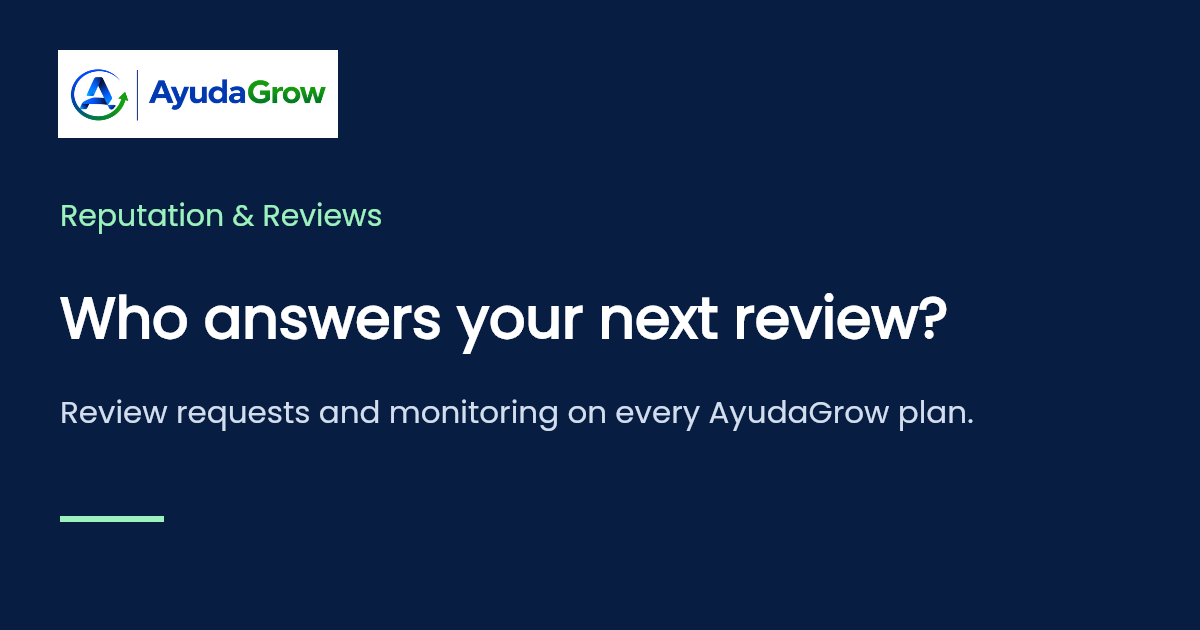
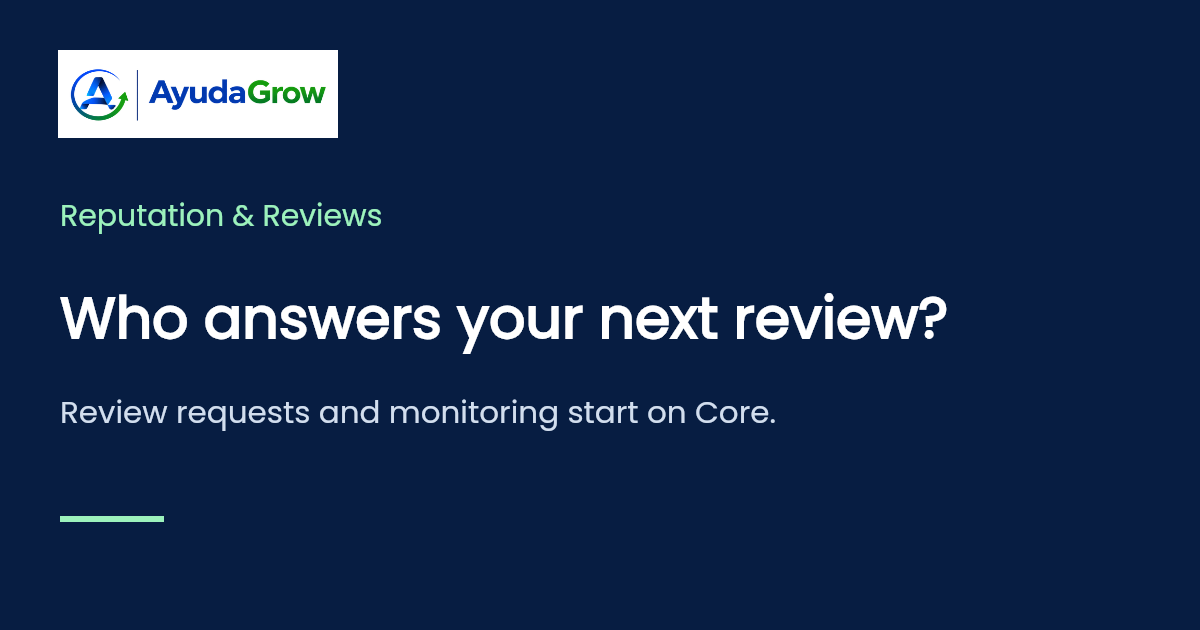
Correct Essentials reputation exclusion and clarify Scale listing checks

Changed region(s): [[0.4625, 0.6333, 0.8017, 0.6937]]

diff --git a/review/index.html b/review/index.html
@@ -43,7 +43,7 @@ footer{background:var(--navy);color:white}.hero .offer .plan,.hero .offer .cost{
 <meta property="og:description" content="Compare review requests, AI-drafted replies, response automation and multi-site monitoring across all four AyudaGrow plans.">
 <meta property="og:url" content="https://raw.githack.com/ayudadigital12-afk/AyudaGrow-Site-Nov-2026/reputation-review-preview/review/index.html">
 <meta property="og:image" content="https://raw.githack.com/ayudadigital12-afk/AyudaGrow-Site-Nov-2026/reputation-review-preview/review/share.png">
-<meta property="og:image:alt" content="AyudaGrow Reputation and Reviews. Review requests and monitoring on every plan.">
+<meta property="og:image:alt" content="AyudaGrow Reputation and Reviews. Review requests and monitoring start on Core.">
 <meta name="twitter:card" content="summary_large_image">
 </head>
 <body>
@@ -55,25 +55,25 @@ footer{background:var(--navy);color:white}.hero .offer .plan,.hero .offer .cost{
 <a class="button hero-action" href="#listing-check">Request a listing check</a></div></div></section>
 <section class="chapter wrap" aria-labelledby="steps-title"><h2 id="steps-title">How it works</h2>
 <ol class="steps">
-<li><h3>Connect your listings</h3><p>Start with your Google Business Profile and Facebook page. On Scale, add every eligible review source relevant to your business.</p></li>
+<li><h3>Connect your listings</h3><p>Start with your Google Business Profile and Facebook page. Review requests and monitoring start on Core. Ask us to check other listings separately.</p></li>
 <li><h3>We check each connection</h3><p>We match the listing to the right business and location, check that reviews arrive, and test where an alert goes.</p></li>
 <li><h3>Catch reviews that need attention</h3><p>New reviews from connected sites land in one review inbox. Once a source passes testing, concerning feedback can alert the manager you choose.</p></li>
-<li><h3>Reply and learn what to fix</h3><p>Reply yourself, approve an AI draft or automate replies according to your plan. Core and Build add a monthly health summary. Scale adds trends by source and follow-up actions.</p></li>
+<li><h3>Reply and learn what to fix</h3><p>Approve an AI draft on Core or set reply rules on Build and Scale. Core and Build add a monthly health summary. Scale adds trends by source and follow-up actions.</p></li>
 </ol></section>
-<section class="collection"><div class="wrap chapter collection-layout"><div><p class="eyebrow">Getting more reviews</p><h2>Ask while the visit is still fresh.</h2><p>We invite <strong>every customer</strong> to give honest feedback, whatever their experience. Everyone gets the same opportunity to leave a public review on sites that welcome requests.</p></div>
+<section class="collection"><div class="wrap chapter collection-layout"><div><p class="eyebrow">Getting more reviews</p><h2>Ask while the visit is still fresh.</h2><p>On Core, Build and Scale, we invite <strong>every customer</strong> to give honest feedback, whatever their experience. Everyone gets the same opportunity to leave a public review on sites that welcome requests.</p></div>
 <dl class="collect-list"><div><dt>After a visit, stay or job</dt><dd>Send a review link in a thank-you email or through WhatsApp where enabled. We respect each customer’s contact preferences.</dd></div>
 <div><dt>At the counter or on a receipt</dt><dd>A QR code takes customers straight to an eligible review page. No reward or minimum rating is attached.</dd></div>
 <div><dt>On your website, from Core</dt><dd>Display customer reviews with a review widget. Invite customers to record optional video testimonials and get their permission before sharing them.</dd></div></dl></div></section>
-<section class="chapter wrap" id="plans"><p class="eyebrow">Plans &amp; pricing</p><h2>How much help do you want with reviews?</h2><p class="intro">Review requests and monitoring come with every plan. Choose a plan based on who should reply and which sites you need.</p>
+<section class="chapter wrap" id="plans"><p class="eyebrow">Plans &amp; pricing</p><h2>How much help do you want with reviews?</h2><p class="intro">Review requests and monitoring start on Core with Google and Facebook. Build and Scale can automate replies on those two platforms.</p>
 <table class="plan-table"><caption>Monthly AyudaGrow plan prices in US dollars and included reputation features</caption><colgroup><col class="tier-col"><col></colgroup><thead><tr><th scope="col">Plan · USD/month</th><th scope="col">What you get for reputation &amp; reviews</th></tr></thead><tbody>
-<tr><th scope="row">Essentials <span>US$120</span></th><td>Request and monitor Google and Facebook reviews. Use a review link or QR code and have your team write the replies.</td></tr>
-<tr><th scope="row">Core <span>US$249</span></th><td>Everything in Essentials, plus AI-drafted Google and Facebook replies <strong>you approve and send</strong>. Adds Google Business Profile optimization, website review widgets, video testimonials and a monthly account health summary.</td></tr>
+<tr><th scope="row">Essentials <span>US$120</span></th><td>Reputation and review management are excluded from Essentials.</td></tr>
+<tr><th scope="row">Core <span>US$249</span></th><td>Request and monitor reviews. Share a review link or QR code. Get AI-drafted Google and Facebook replies <strong>you approve and send</strong>. Adds Google Business Profile optimization, website review widgets, video testimonials and a monthly account health summary.</td></tr>
 <tr><th scope="row">Build <span>US$349</span></th><td>Add <strong>automatic Google and Facebook replies</strong> under rules you agree with us. Choose which reviews need a person, and use your monthly health summary to check how the process is working.</td></tr>
-<tr><th scope="row">Scale <span>US$497</span></th><td>Add monitoring across <strong>all eligible supported review sites</strong> for your business. Receive a monthly reputation summary with source trends, recurring themes and actions. Hospitality teams get a guest-experience summary.</td></tr>
+<tr><th scope="row">Scale <span>US$497</span></th><td>Includes <strong>Google and Facebook</strong> review monitoring and automatic replies. Ask for a listing check to confirm which additional sources can be monitored for your business. Receive a monthly reputation summary with source trends, recurring themes and actions. Hospitality teams get a guest-experience summary.</td></tr>
 </tbody></table>
-<p class="fit-note"><strong>For example,</strong> a dentist who wants to approve replies to Google reviews can choose Core at US$249/month. A hotel that needs to track Expedia, Booking.com and Tripadvisor alongside Google can choose Scale.</p><p class="fine">Usage charges apply to review-request messages. WhatsApp is optional on Essentials. <a href="https://www.ayudagrow.com/pricing">Compare full plans</a></p></section>
+<p class="fit-note"><strong>For example,</strong> a dentist who wants to approve replies to Google reviews can choose Core at US$249/month. A hotel with listings on Expedia, Booking.com or Tripadvisor can request a listing check to confirm monitoring coverage before choosing Scale.</p><p class="fine">Usage charges apply to review-request messages. <a href="https://www.ayudagrow.com/pricing">Compare full plans</a></p></section>
 <section class="directory wrap" id="platforms"><h2>Review platforms by business type</h2>
-<p class="directory-intro">Google and Facebook review monitoring is included on every plan. The full directory shows the additional sources available on Scale, subject to your listing’s eligibility.</p>
+<p class="directory-intro">Google and Facebook support direct replies on eligible plans. Use this directory to identify other listings for a connection check. A directory entry does not guarantee plan coverage or an active connection.</p>
 <div class="filters"><div class="filter industry"><label for="business-filter">Business type</label><select id="business-filter"><option value="all">All business types</option><option value="hotels">Hotels, villas &amp; accommodation</option><option value="restaurants">Restaurants, cafés &amp; bars</option><option value="tours">Tours &amp; attractions</option><option value="events">Wedding &amp; event venues</option><option value="health">Healthcare &amp; care services</option><option value="retail">Retail &amp; online sellers</option><option value="auto">Automotive</option><option value="property">Property, trades &amp; home services</option><option value="legal">Legal services</option><option value="software">Apps, software &amp; publishing</option><option value="employment">Employers &amp; recruitment</option><option value="local">Local &amp; consumer services</option></select></div><div class="filter search"><label for="platform-search">Find a platform</label><input id="platform-search" type="search" placeholder="e.g. Tripadvisor" autocomplete="off"></div><p class="count" id="result-count" role="status" aria-live="polite"></p></div>
[2 lines of base64/hex data omitted]
@@ -132,7 +132,7 @@ footer{background:var(--navy);color:white}.hero .offer .plan,.hero .offer .cost{
[1 lines of base64/hex data omitted]
 <p class="empty" id="empty" hidden>No matching platform. Try another name or business type.</p>
 <div class="footline"><button class="more" type="button" id="expand" aria-controls="platform-table" hidden>Show all platforms</button></div><p class="fine marks">Platform names and logos belong to their respective owners. A listing in this directory does not imply a partnership or endorsement.</p></section>
-<section class="how" aria-label="Reply options"><div class="wrap"><p><b>Direct response publishing</b>Reply to Google and Facebook reviews from AyudaGrow. Core lets you approve an AI draft. Build and Scale can publish automatic replies under agreed rules.</p><p><b>Monitor, analyze and draft</b>On Scale, track feedback on other connected sites. Review an AI-assisted draft, then copy and paste it into the original site where owner replies are available.</p></div></section>
+<section class="how" aria-label="Reply options"><div class="wrap"><p><b>Direct response publishing</b>Reply to Google and Facebook reviews from AyudaGrow. Core lets you approve an AI draft. Build and Scale can publish automatic replies under agreed rules.</p><p><b>Monitor, analyze and draft</b>For other sites, we confirm monitoring coverage and test your listing first. Review an AI-assisted draft, then copy and paste it into the original site where owner replies are available.</p></div></section>
 
 <section class="service" id="reporting"><div class="wrap"><div><p class="eyebrow">Monthly support</p><h2>Know which problem to tackle next.</h2></div><div class="support-copy"><p>AyudaGrow helps you generate and interpret the reports included in your plan. On Scale, we use AI to summarize recurring feedback, check it against the reviews, then help you choose priorities and follow up.</p><p>For example, if guests repeatedly mention late pickups, the tour manager can check the routes involved, adjust the pickup instructions and see whether the same complaint comes up next month.</p><p class="support-note">Scale’s reporting assistance, account checks and other agreed support share three monthly support hours.</p></div></div></section>
 <section class="closing" id="listing-check"><div class="wrap chapter"><div><p class="eyebrow">Listing &amp; connection check</p><h2>Find out which of your listings can connect.</h2><p>Send your business name, location and any review-page links you already have. We’ll check the listings, explain where you can reply directly and recommend a plan based on the sites and help you actually need.</p></div><div class="request-actions"><!-- Replace this email fallback with the supplied reputation lead form when available. --><a class="button email-request" href="mailto:admin@ayudagrow.com?subject=Reputation%20listing%20check&amp;body=Business%20name%3A%20%0ALocation%3A%20%0AReview%20page%20links%20%28if%20known%29%3A%20%0AWhat%20I%20need%20help%20with%3A%20">Email my listing-check request</a><p class="fine">Opens your email app. AyudaGrow will reply by email.</p></div></div></section>
